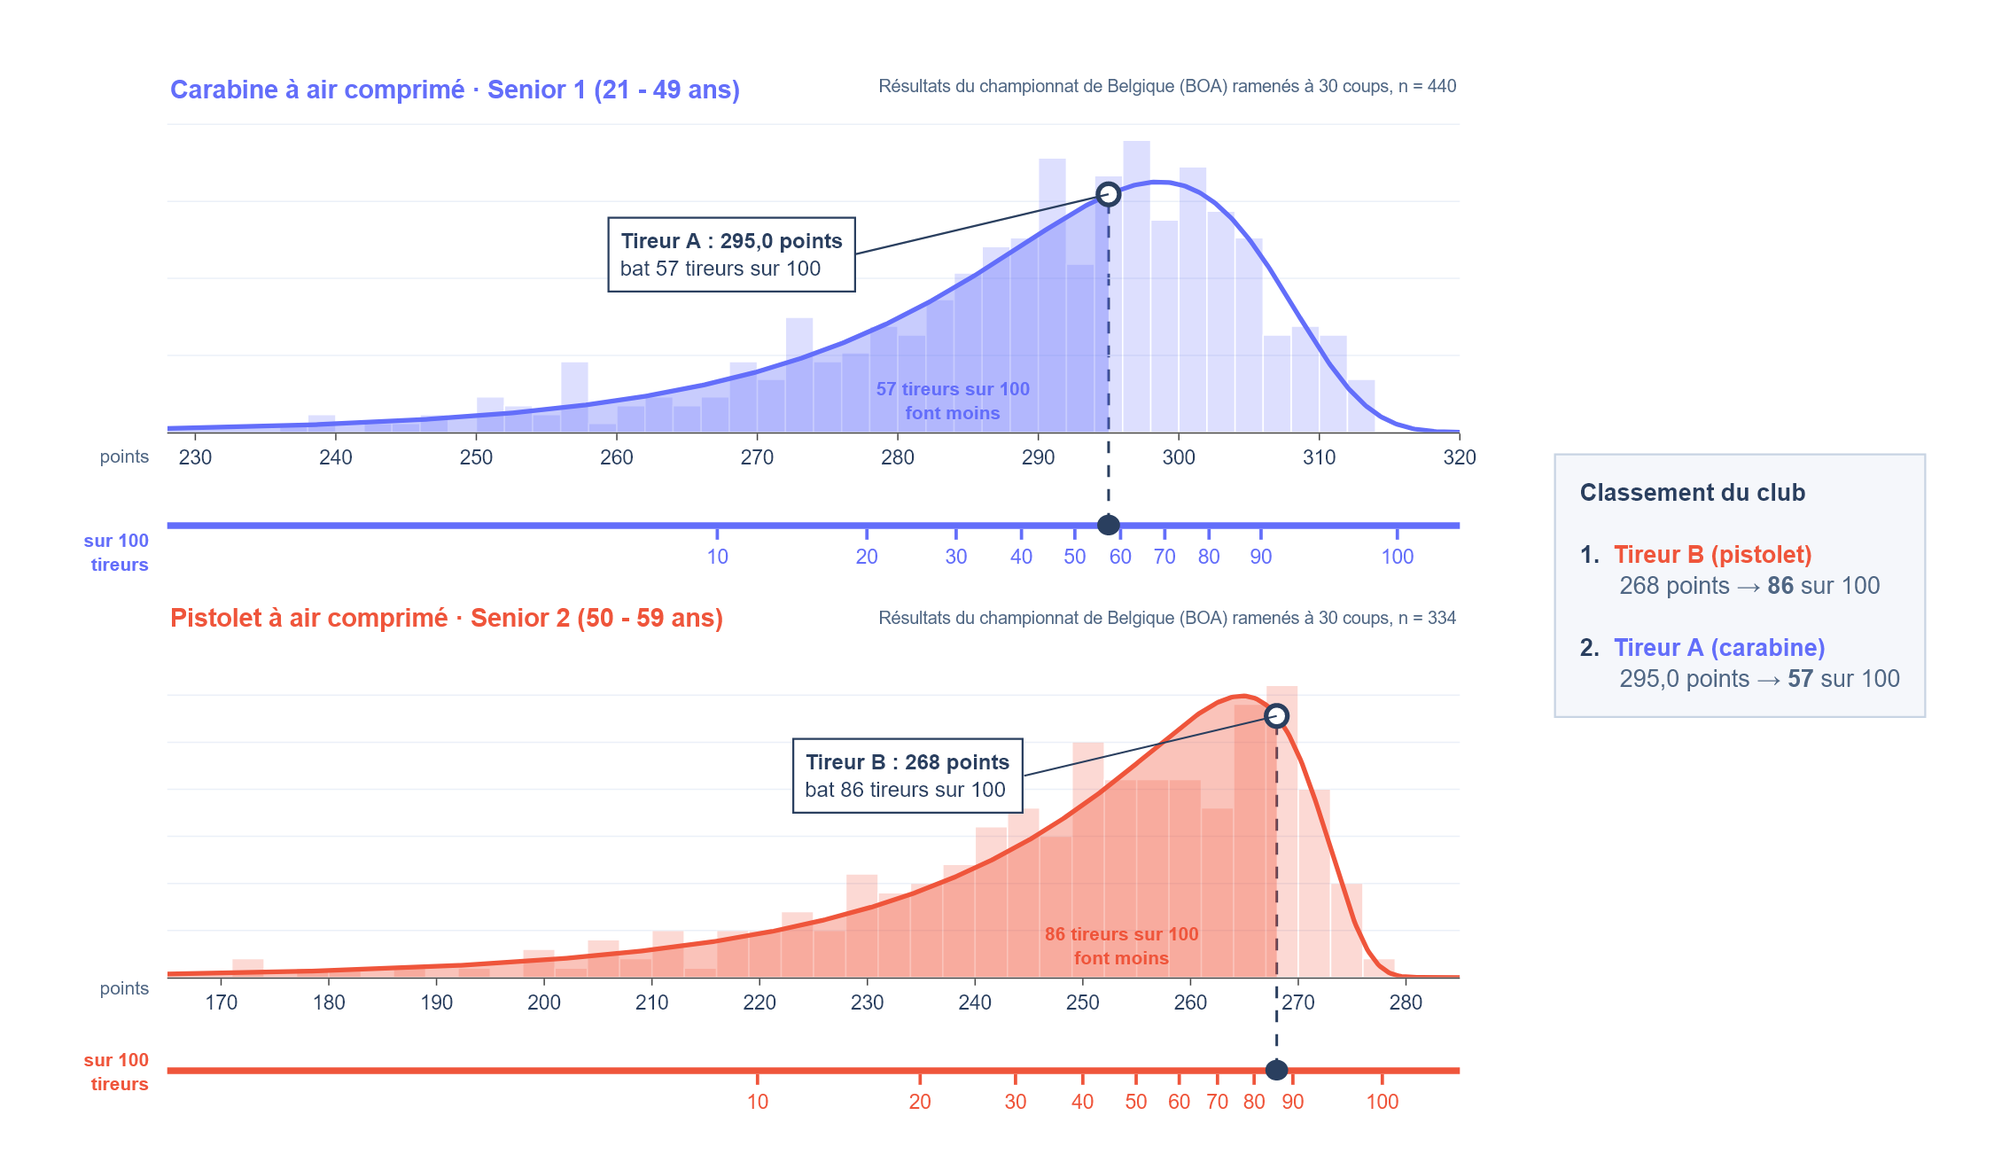
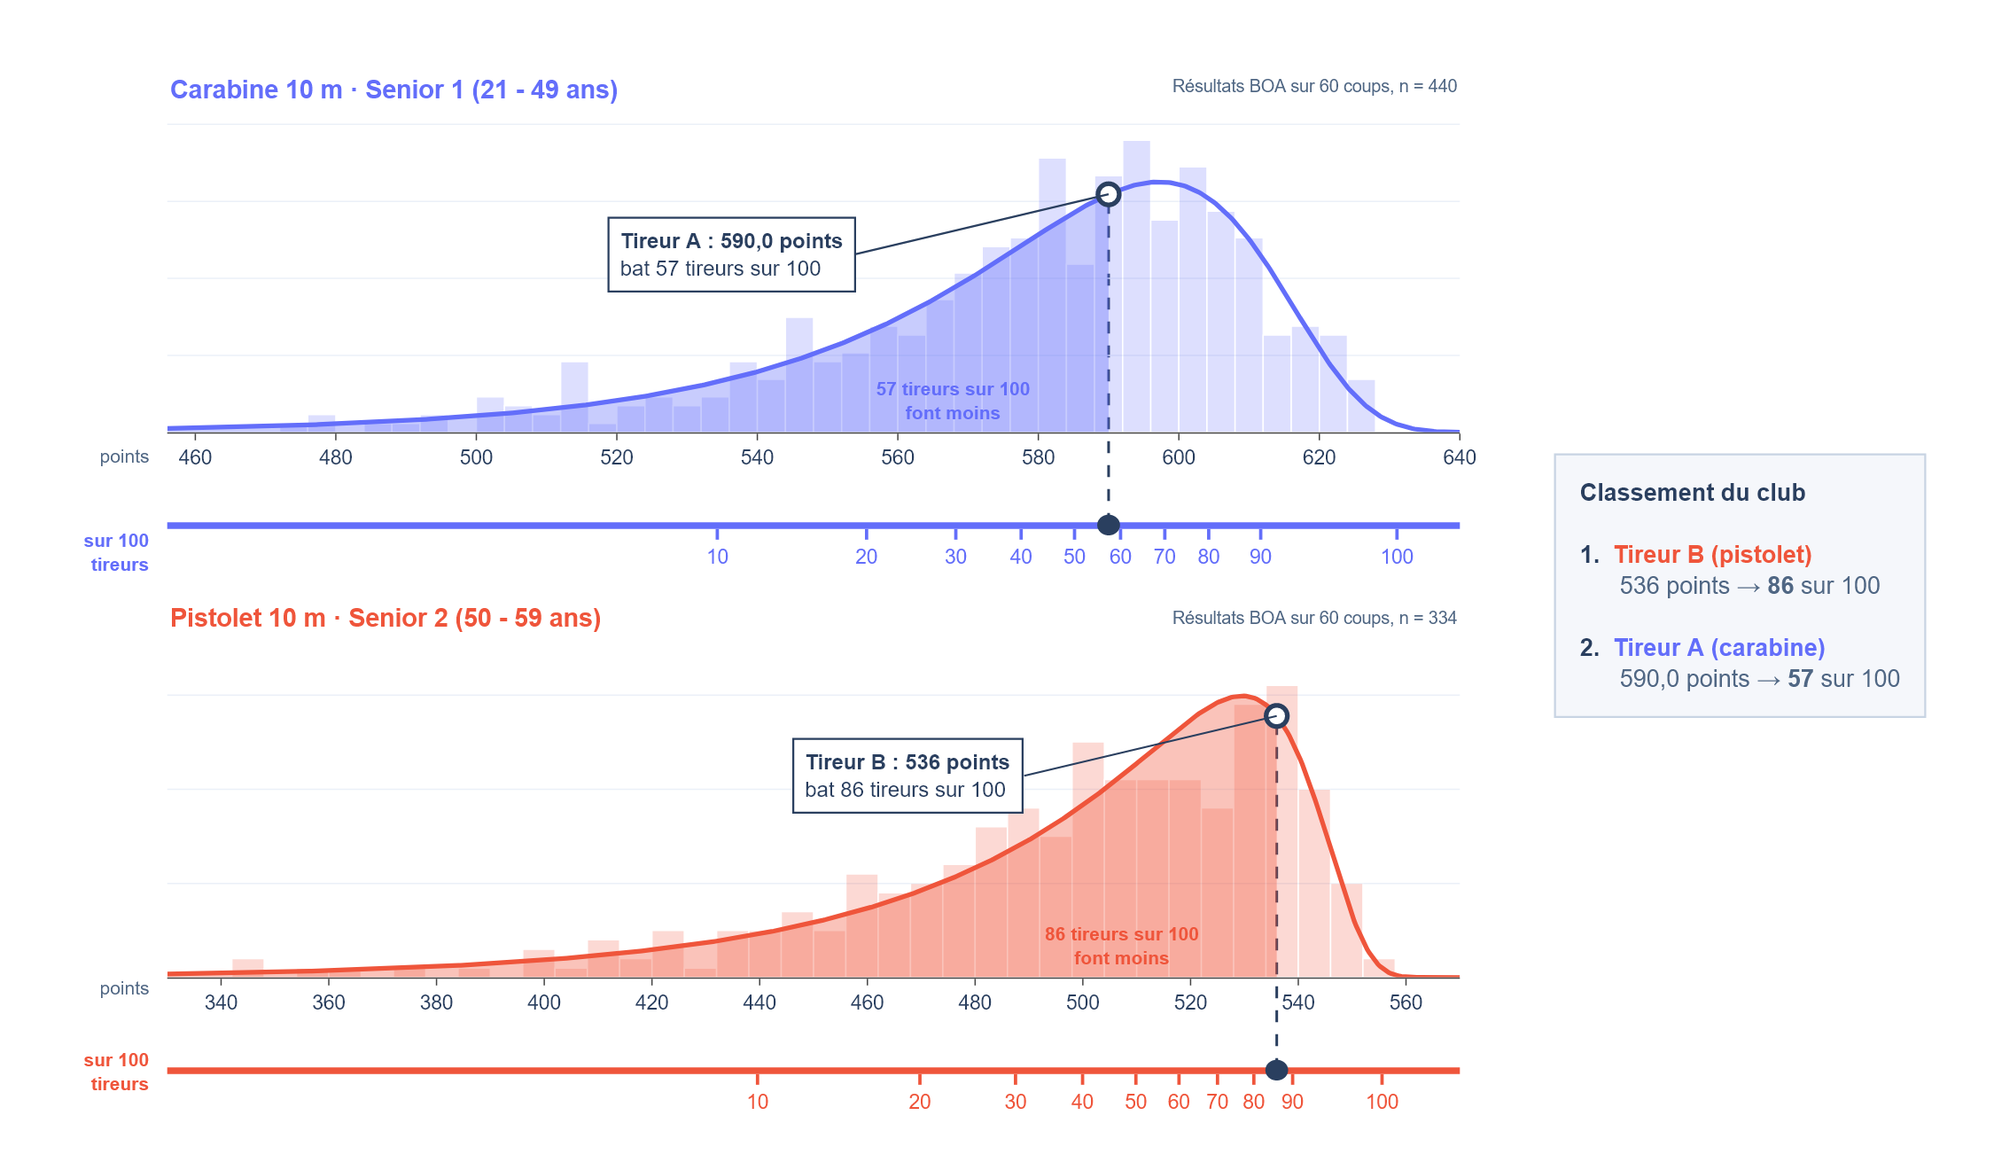
Minor tweaks

diff --git a/src/plot_explainer.py b/src/plot_explainer.py
@@ -4,6 +4,8 @@
 
     The distributions are fitted like process.py does (loggamma on the results normalized to 30 shots,
     unisex groups) and the score uses the exported CDF correction table, exactly like the club workbook.
+    The points are shown on <C_DISPLAY_SHOTS> shots, the national format of the shown groups: scaling a
+    result and the table by the same factor leaves the score unchanged.
 
     Usage: uv run src/plot_explainer.py [--output pictures/score_explainer] [--html]
            writes <output>_nl.png, <output>_en.png and <output>_fr.png
@@ -14,21 +16,22 @@ import pandas as pd
 import plotly.graph_objects as go
 import scipy.stats
 
-C_SHOT_COUNT = 30
+C_SHOT_COUNT = 30           # shot count of the correction table
+C_DISPLAY_SHOTS = 60        # shot count of the points shown in the figure
 C_SCORE_SCALE = 100
 SHOTS = {"DUV": 30, "BEN": 30, "CAD": 40}  # every other category shoots 60
 GROUPS = {"D1": "D1 & S1", "S1": "D1 & S1", "D2": "D2 & S2", "S2": "D2 & S2"}
 
-PANELS = [  # discipline, group, color, x range, bin size, example shooter, result
-    ("LK", "D1 & S1", "#636EFA", (228, 320), 2, "A", 295.0),
-    ("LP", "D2 & S2", "#EF553B", (165, 285), 3, "B", 268),
+PANELS = [  # discipline, group, color, x range, bin size, example shooter, result (all in <C_DISPLAY_SHOTS> shot points)
+    ("LK", "D1 & S1", "#636EFA", (456, 640), 4, "A", 590.0),
+    ("LP", "D2 & S2", "#EF553B", (330, 570), 6, "B", 536),
 ]
 TEXT = {
     "nl": dict(
         separators=",.",
         panel={"LK": "Luchtkarabijn · senioren 1 (21 - 49 jaar)", "LP": "Luchtpistool · senioren 2 (50 - 59 jaar)"},
         discipline={"LK": "LK", "LP": "LP"},
-        source="BOA-resultaten omgerekend naar {shots} schoten, n = {n}",
+        source="BOA-resultaten op {shots} schoten, n = {n}",
         points="punten",
         scale="op 100<br>schutters",
         shooter="Schutter {who}",
@@ -40,7 +43,7 @@ TEXT = {
         separators=".,",
         panel={"LK": "Air rifle · seniors 1 (21 - 49 years)", "LP": "Air pistol · seniors 2 (50 - 59 years)"},
         discipline={"LK": "rifle", "LP": "pistol"},
-        source="Belgian championship (BOA) results scaled to {shots} shots, n = {n}",
+        source="Belgian championship (BOA) results, {shots} shots, n = {n}",
         points="points",
         scale="out of 100<br>shooters",
         shooter="Shooter {who}",
@@ -50,9 +53,9 @@ TEXT = {
         rankingLine="{result} points → <b>{score}</b> out of 100"),
     "fr": dict(
         separators=", ",
-        panel={"LK": "Carabine à air comprimé · Senior 1 (21 - 49 ans)", "LP": "Pistolet à air comprimé · Senior 2 (50 - 59 ans)"},
+        panel={"LK": "Carabine 10 m · Senior 1 (21 - 49 ans)", "LP": "Pistolet 10 m · Senior 2 (50 - 59 ans)"},
         discipline={"LK": "carabine", "LP": "pistolet"},
-        source="Résultats du championnat de Belgique (BOA) ramenés à {shots} coups, n = {n}",
+        source="Résultats BOA sur {shots} coups, n = {n}",
         points="points",
         scale="sur 100<br>tireurs",
         shooter="Tireur {who}",
@@ -99,16 +102,20 @@ def formatResult(discipline:str, result:float, text:dict) -> str:
 def buildFigure(df:pd.DataFrame, text:dict) -> go.Figure:
     fig = go.Figure()
     layout, shapes, annotations, ranking = {}, [], [], []
+    k = C_SHOT_COUNT / C_DISPLAY_SHOTS  # from shown points to the points of the fit and the table
     for n, (dis, group, color, (lo, hi), binSize, who, result) in enumerate(PANELS):
         ax, rulerAx = ("" if n == 0 else str(n + 1)), str(n + 3)
-        data = df.loc[(df['Discipline'] == dis) & (df['Group'] == group), 'Result30'].to_numpy(dtype=float)
-        params = scipy.stats.loggamma.fit(data)
-        score = scoreFunction(dis, group)
+        fitData = df.loc[(df['Discipline'] == dis) & (df['Group'] == group), 'Result30'].to_numpy(dtype=float)
+        data = fitData / k
+        params = scipy.stats.loggamma.fit(fitData)
+        tableScore = scoreFunction(dis, group)
+        score = lambda r: tableScore(np.asarray(r) * k)
+        density = lambda x: scipy.stats.loggamma.pdf(np.asarray(x) * k, *params) * k
         xs = np.linspace(lo, hi, 600)
-        pdf = scipy.stats.loggamma.pdf(xs, *params)
+        pdf = density(xs)
         yMax = max(pdf.max(), np.histogram(data, bins=np.arange(lo, hi + binSize, binSize), density=True)[0].max()) * 1.12
         resultScore = f"{float(score(result)):.0f}"
-        resultPdf = float(scipy.stats.loggamma.pdf(result, *params))
+        resultPdf = float(density(result))
         shown, shooter = formatResult(dis, result, text), text["shooter"].format(who=who)
         ranking.append((float(score(result)), shooter, dis, shown, resultScore, color))
 
@@ -132,7 +139,7 @@ def buildFigure(df:pd.DataFrame, text:dict) -> go.Figure:
         scores = score(grid)
         ticks = [(float(grid[np.argmax(scores >= s)]), str(s)) for s in range(10, C_SCORE_SCALE + 1, 10) if scores.max() >= s]
         bottom = Y_DOMAINS[n][0]
-        layout[f"xaxis{ax}"] = dict(domain=X_DOMAIN, range=[lo, hi], anchor=f"y{ax}", dtick=10, showgrid=False,
+        layout[f"xaxis{ax}"] = dict(domain=X_DOMAIN, range=[lo, hi], anchor=f"y{ax}", dtick=20, showgrid=False,
                                     ticks="outside", showline=True, linecolor="#444", tickfont=dict(size=15, color=INK))
         layout[f"yaxis{ax}"] = dict(domain=Y_DOMAINS[n], range=[0, yMax], anchor=f"x{ax}", showticklabels=False,
                                     gridcolor="#ebf0f8", zeroline=False)
@@ -143,7 +150,7 @@ def buildFigure(df:pd.DataFrame, text:dict) -> go.Figure:
         annotations += [
             dict(text=f"<b>{text['panel'][dis]}</b>", x=X_DOMAIN[0], y=Y_DOMAINS[n][1] + 0.03, xref="paper", yref="paper",
                  xanchor="left", showarrow=False, font=dict(size=19, color=color)),
-            dict(text=text["source"].format(shots=C_SHOT_COUNT, n=len(data)), x=X_DOMAIN[1], y=Y_DOMAINS[n][1] + 0.03,
+            dict(text=text["source"].format(shots=C_DISPLAY_SHOTS, n=len(data)), x=X_DOMAIN[1], y=Y_DOMAINS[n][1] + 0.03,
                  xref="paper", yref="paper", xanchor="right", showarrow=False, font=dict(size=13, color=MUTED)),
             dict(text=text["points"], x=X_DOMAIN[0] - 0.008, y=bottom - 0.022, xref="paper", yref="paper",
                  xanchor="right", showarrow=False, font=dict(size=14, color=MUTED)),

diff --git a/README.fr.md b/README.fr.md
@@ -4,7 +4,7 @@
 
 Dans le tir sportif, les catégories d'âge garantissent une compétition équitable. Un club local compte toutefois rarement assez de tireurs par catégorie pour que cela fonctionne : une poignée de tireurs au pistolet et quelques tireurs à la carabine, répartis sur sept groupes d'âge, ne font pas une compétition. Sans compétition, peu de raisons de participer, et sans tireurs, pas de compétition.
 
-Ce projet supprime les catégories d'âge dans les compétitions de club **sans rendre la comparaison injuste**. Il s'appuie sur des années de résultats du championnat de Belgique pour tenir compte de l'âge, et même de la différence entre carabine et pistolet à air comprimé, afin que tous les membres du club s'affrontent dans un seul classement.
+Ce projet propose de laisser tomber les catégories d'âge dans les compétitions de club **sans rendre la comparaison injuste**. Il s'appuie sur des années de résultats du championnat de Belgique pour tenir compte de l'âge, et même de la différence entre carabine et pistolet à air comprimé, afin que tous les membres d'un club puissent s'affronter dans un seul classement.
 
 ## L'idée : un score sur 100
 
@@ -12,7 +12,7 @@ Chaque résultat est converti en score : *imaginez 100 tireurs de votre discipli
 
 ![Deux tireurs d'exemple sur les distributions réelles du BOA](pictures/score_explainer_fr.png?raw=true)
 
-Le tireur A fait 295,0 à la carabine en Senior 1 et bat 57 tireurs sur 100 de ce groupe. Le tireur B fait 268 au pistolet en Senior 2 : 27 points de moins, mais meilleur que 86 tireurs sur 100 de ce groupe. **Au classement du club, B termine devant A.**
+Le tireur A fait 590,0 à la carabine en Senior 1 et bat 57 tireurs sur 100 de ce groupe. Le tireur B fait 536 au pistolet en Senior 2 : 54 points de moins, mais meilleur que 86 tireurs sur 100 de ce groupe. **Au classement du club, B termine devant A.**
 
 Remarquez à quel point l'échelle du score est irrégulière par rapport aux points : au milieu d'un groupe, là où les tireurs se bousculent, quelques points suffisent pour en dépasser beaucoup ; en bas, chaque place coûte beaucoup de points.
 
@@ -41,7 +41,7 @@ Cadets, juniors, seniors et vétérans des deux disciplines atteignent tous le s
 
 ### Classement de club dans un tableur
 
-`club/Clubklassement St. Michiel.xlsx` est un classement prêt à l'emploi pour une saison de club de 10 compétitions de 30 coups dont les 5 meilleures comptent. Il fonctionne dans Excel, LibreOffice Calc et Google Sheets, sans macros. Le classeur est en néerlandais (le club est flamand) :
+`club/Clubklassement St. Michiel.xlsx` est une proposition de classement, préparée pour le format de la compétition de club de St. Michiel Roeselare : une saison de 10 compétitions de 30 coups dont les 5 meilleures comptent. Il fonctionne dans Excel, LibreOffice Calc et Google Sheets, sans macros. Utilisez-le comme exemple : un autre format demande des adaptations dans `src/build_club_sheet.py` (et une table de correction pour un autre nombre de coups). Le classeur est en néerlandais (le club est flamand) :
 
 - **Uitleg** : les paramètres (saison, nombre de compétitions qui comptent) et le mode d'emploi.
 - **Resultaten** : par tireur le nom, la discipline, la catégorie et les résultats. Le score (« op 100 schutters », sur 100 tireurs) est calculé pour chaque résultat.
@@ -58,6 +58,7 @@ uv run src/process.py --year 2024        # classement d'une année donnée
 uv run src/process.py --no-plots         # ne pas ouvrir les figures plotly
 uv run src/build_club_sheet.py           # construire le classeur du club à partir de la table de correction (--rows 200, --output <fichier>)
 uv run src/plot_explainer.py             # dessiner la figure explicative en anglais, néerlandais et français (--html pour des versions interactives)
+uv run src/build_poster.py               # affiche A4 en néerlandais et en français dans poster/ (imprimée avec Microsoft Edge)
 ```
 
 | Option de `process.py` | Défaut | Signification |
@@ -96,7 +97,7 @@ Chaque discipline et chaque groupe d'âge est traité séparément, en quatre é
 
 ### Étape 1 : le même nombre de coups
 
-Les catégories tirent 30, 40 ou 60 coups, une compétition de club 30. Tous les résultats sont d'abord ramenés au format du club (un résultat de 600 sur 60 coups compte pour 300), pour que la table s'applique directement aux résultats du club.
+Les catégories tirent 30, 40 ou 60 coups, une compétition de club 30. Tous les résultats sont d'abord ramenés au format du club (un résultat de 600 sur 60 coups compte pour 300), pour que la table s'applique directement aux résultats du club. Le score ne dépend pas de cette conversion : 590,0 sur 60 coups et 295,0 sur 30 coups obtiennent tous deux 57. C'est pourquoi les figures montrent les points habituels sur 60 coups.
 
 ### Étape 2 : dames et messieurs ensemble
 

diff --git a/README.nl.md b/README.nl.md
@@ -4,7 +4,7 @@
 
 In de schietsport zorgen leeftijdscategorieën voor een eerlijke competitie. Een club heeft echter zelden genoeg schutters per categorie om dat te laten werken: een handvol pistoolschutters en een paar karabijnschutters, verspreid over zeven leeftijdsgroepen, is geen competitie. Zonder competitie is er weinig reden om mee te doen, en zonder schutters is er geen competitie.
 
-Dit project schaft de leeftijdscategorieën af in de clubcompetitie **zonder dat de vergelijking oneerlijk wordt**. Het gebruikt jaren aan resultaten van het Belgisch kampioenschap om rekening te houden met de leeftijd, en zelfs met het verschil tussen luchtkarabijn en luchtpistool, zodat alle leden in één klassement tegen elkaar strijden.
+Dit project stelt voor om de leeftijdscategorieën in de clubcompetitie los te laten **zonder dat de vergelijking oneerlijk wordt**. Het gebruikt jaren aan resultaten van het Belgisch kampioenschap om rekening te houden met de leeftijd, en zelfs met het verschil tussen luchtkarabijn en luchtpistool, zodat alle leden van een club in één klassement tegen elkaar kunnen strijden.
 
 ## Het idee: een score op 100
 
@@ -12,7 +12,7 @@ Elk resultaat wordt omgerekend naar een score: *stel dat er 100 schutters van jo
 
 ![Twee voorbeeldschutters op de echte BOA-verdelingen](pictures/score_explainer_nl.png?raw=true)
 
-Schutter A schiet 295,0 met de luchtkarabijn bij senioren 1 en verslaat 57 van de 100 schutters uit die groep. Schutter B schiet 268 met het luchtpistool bij senioren 2: 27 punten minder, maar beter dan 86 van de 100 uit die groep. **In het clubklassement eindigt B voor A.**
+Schutter A schiet 590,0 met de luchtkarabijn bij senioren 1 en verslaat 57 van de 100 schutters uit die groep. Schutter B schiet 536 met het luchtpistool bij senioren 2: 54 punten minder, maar beter dan 86 van de 100 uit die groep. **In het clubklassement eindigt B voor A.**
 
 Merk op hoe ongelijk de score-schaal is tegenover de punten: in het drukke midden van een groep steek je met een paar punten veel schutters voorbij, onderaan kost elke plaats veel punten.
 
@@ -41,7 +41,7 @@ Cadetten, junioren, senioren en veteranen van beide disciplines halen allemaal d
 
 ### Clubklassement in een rekenblad
 
-`club/Clubklassement St. Michiel.xlsx` is een kant-en-klaar klassement voor een clubseizoen van 10 wedstrijden van 30 schoten waarvan de beste 5 tellen. Het werkt in Excel, LibreOffice Calc en Google Sheets en bevat geen macro's.
+`club/Clubklassement St. Michiel.xlsx` is een voorstel van klassement, opgesteld voor het formaat van de clubcompetitie van St. Michiel Roeselare: een seizoen van 10 wedstrijden van 30 schoten waarvan de beste 5 tellen. Het werkt in Excel, LibreOffice Calc en Google Sheets en bevat geen macro's. Gebruik het als voorbeeld: een ander formaat vraagt aanpassingen in `src/build_club_sheet.py` (en een correctietabel voor een ander aantal schoten).
 
 - **Uitleg**: instellingen (seizoen, aantal tellende wedstrijden) en de handleiding.
 - **Resultaten**: per schutter de naam, discipline, categorie en resultaten. Voor elk resultaat wordt de score ("op 100 schutters") berekend.
@@ -58,6 +58,7 @@ uv run src/process.py --year 2024        # klassement van een bepaald jaar
 uv run src/process.py --no-plots         # de plotly-figuren niet openen
 uv run src/build_club_sheet.py           # het clubrekenblad bouwen uit de correctietabel (--rows 200, --output <bestand>)
 uv run src/plot_explainer.py             # de uitlegfiguur tekenen in het Engels, Nederlands en Frans (--html voor interactieve versies)
+uv run src/build_poster.py               # A4-affiche in het Nederlands en Frans in poster/ (afgedrukt met Microsoft Edge)
 ```
 
 | Optie van `process.py` | Standaard | Betekenis |
@@ -96,7 +97,7 @@ Elke discipline en leeftijdsgroep wordt apart behandeld, in vier stappen.
 
 ### Stap 1: hetzelfde aantal schoten
 
-De categorieën schieten 30, 40 of 60 schoten, een clubwedstrijd 30. Alle resultaten worden eerst omgerekend naar het clubformaat (een resultaat van 600 op 60 schoten telt als 300), zodat de tabel rechtstreeks op clubresultaten werkt.
+De categorieën schieten 30, 40 of 60 schoten, een clubwedstrijd 30. Alle resultaten worden eerst omgerekend naar het clubformaat (een resultaat van 600 op 60 schoten telt als 300), zodat de tabel rechtstreeks op clubresultaten werkt. De score hangt niet af van die omrekening: 590,0 op 60 schoten en 295,0 op 30 schoten scoren allebei 57. Daarom tonen de figuren de vertrouwde punten op 60 schoten.
 
 ### Stap 2: dames en heren samen
 

diff --git a/README.md b/README.md
@@ -4,7 +4,7 @@
 
 Shooting sports use age categories to keep competition fair. A local club, however, rarely has enough shooters per category to make that work: a handful of pistol shooters and a couple of rifle shooters spread over seven age groups is no competition at all. Without competition there is little reason to join, and without shooters there is no competition.
 
-This project removes the age categories from club competitions **without making the comparison unfair**. It uses years of Belgian national championship results to account for age, and even for the difference between air rifle and air pistol, so every member of the club can compete in one ranking.
+This project proposes to drop the age categories in club competitions **without making the comparison unfair**. It uses years of Belgian national championship results to account for age, and even for the difference between air rifle and air pistol, so every member of a club could compete in one ranking.
 
 ## The idea: a score out of 100
 
@@ -12,7 +12,7 @@ Every result is converted to a score: *imagine 100 shooters of your own discipli
 
 ![Two example shooters on the real BOA distributions](pictures/score_explainer_en.png?raw=true)
 
-Shooter A shoots 295.0 with the air rifle in seniors 1 and beats 57 out of 100 shooters of that group. Shooter B shoots 268 with the air pistol in seniors 2: 27 points fewer, but better than 86 out of 100 of that group. **In the club ranking, B finishes above A.**
+Shooter A shoots 590.0 with the air rifle in seniors 1 and beats 57 out of 100 shooters of that group. Shooter B shoots 536 with the air pistol in seniors 2: 54 points fewer, but better than 86 out of 100 of that group. **In the club ranking, B finishes above A.**
 
 Note how uneven the score scale is compared with the points: in the crowded middle of a group a few points move you past many shooters, at the bottom it takes a lot of points to climb.
 
@@ -41,7 +41,7 @@ Cadets, juniors, seniors and veterans of both disciplines all reach the top. The
 
 ### Club ranking workbook
 
-`club/Clubklassement St. Michiel.xlsx` is a ready-to-use ranking for a club season of 10 competitions of 30 shots where the best 5 count. It works in Excel, LibreOffice Calc and Google Sheets and has no macros.
+`club/Clubklassement St. Michiel.xlsx` is a proposed ranking workbook, drafted for the club competition format of St. Michiel Roeselare: a season of 10 competitions of 30 shots where the best 5 count. It works in Excel, LibreOffice Calc and Google Sheets and has no macros. Use it as an example: other formats need changes to `src/build_club_sheet.py` (and a correction table for another shot count).
 
 - **Uitleg**: settings (season, number of counting competitions) and instructions in Dutch.
 - **Resultaten**: per shooter the name, discipline, category and results. The score ("op 100 schutters") is calculated for every result.
@@ -58,6 +58,7 @@ uv run src/process.py --year 2024        # ranking of a specific year
 uv run src/process.py --no-plots         # skip opening the plotly figures
 uv run src/build_club_sheet.py           # build the club workbook from the correction table (--rows 200, --output <file>)
 uv run src/plot_explainer.py             # draw the explainer figure in English, Dutch and French (--html for interactive versions)
+uv run src/build_poster.py               # A4 poster in Dutch and French in poster/ (printed with Microsoft Edge)
 ```
 
 | `process.py` option | Default | Meaning |
@@ -96,7 +97,7 @@ Every discipline and age group is handled separately, in four steps.
 
 ### Step 1: the same number of shots
 
-The categories shoot 30, 40 or 60 shots, a club competition 30. All results are scaled to the club format first (a 60-shot result of 600 counts as 300), so the table can be used directly on club results.
+The categories shoot 30, 40 or 60 shots, a club competition 30. All results are scaled to the club format first (a 60-shot result of 600 counts as 300), so the table can be used directly on club results. The score does not depend on this scaling: 590.0 on 60 shots and 295.0 on 30 shots both score 57. That is why the figures show the familiar 60-shot points.
 
 ### Step 2: ladies and men together
 
